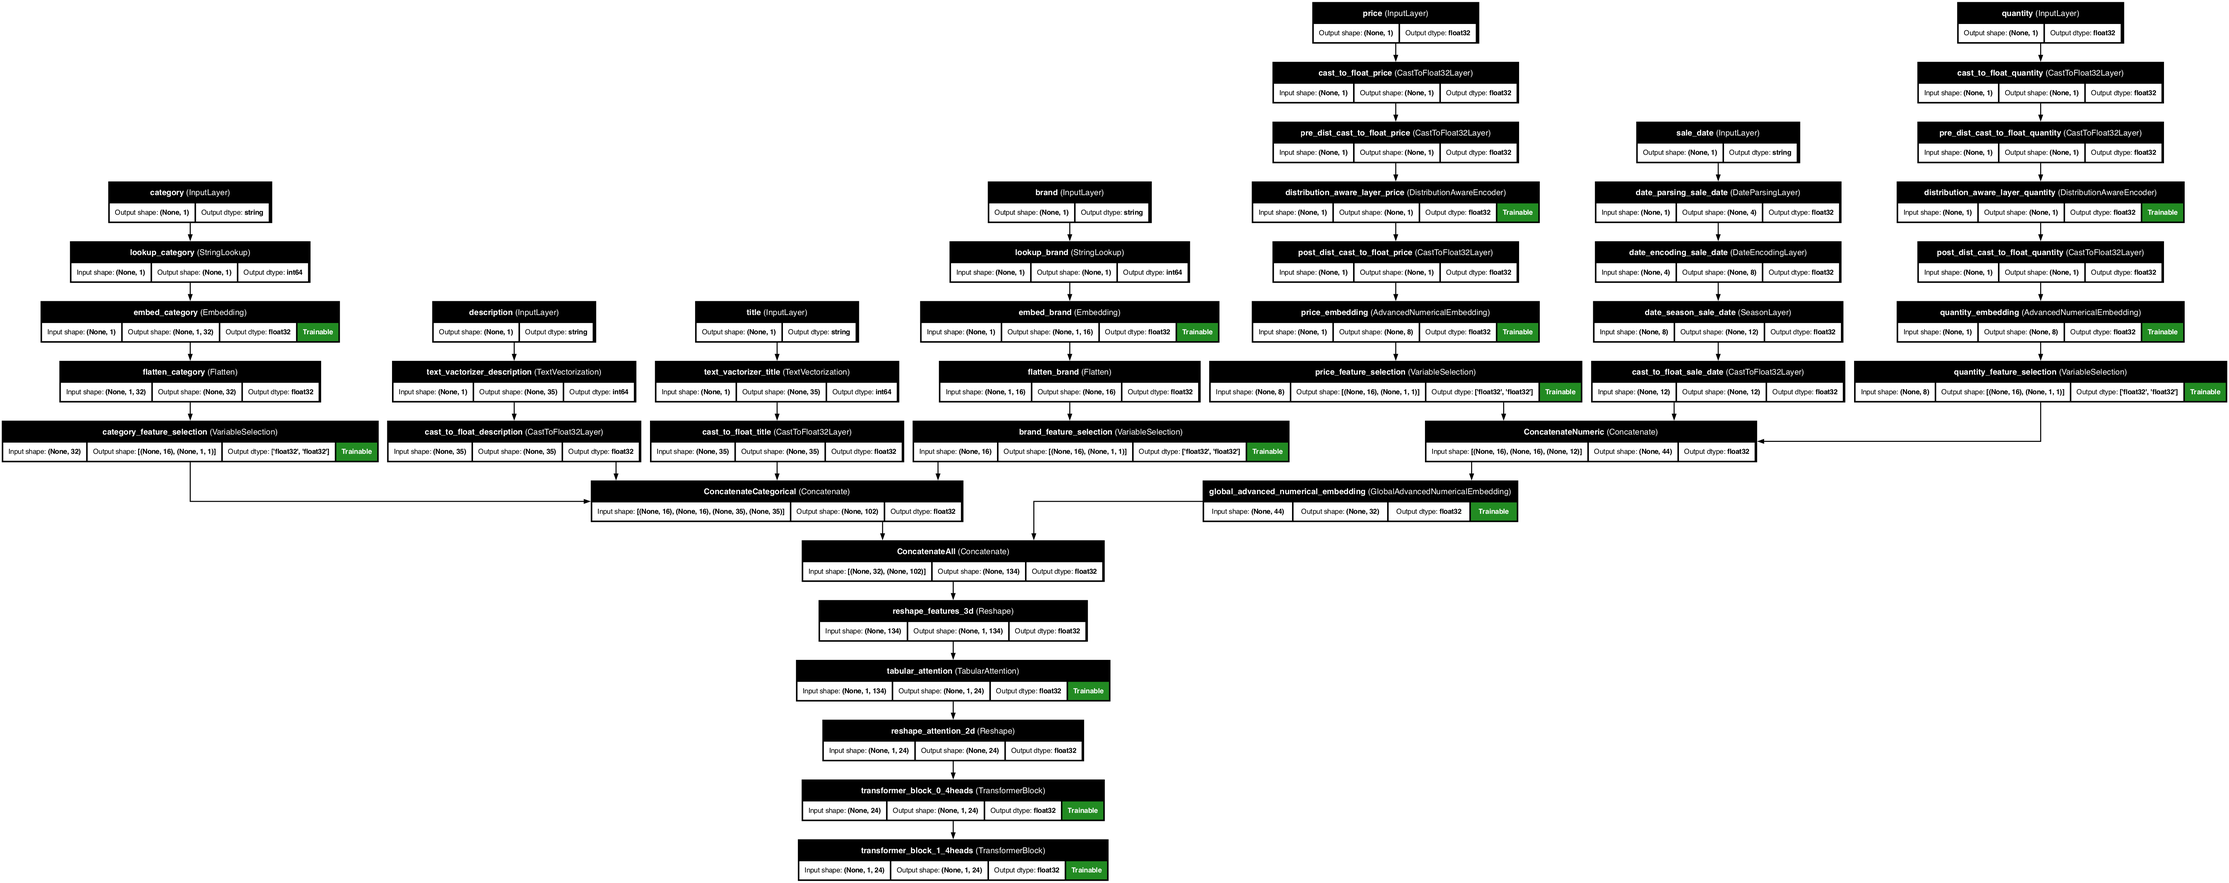
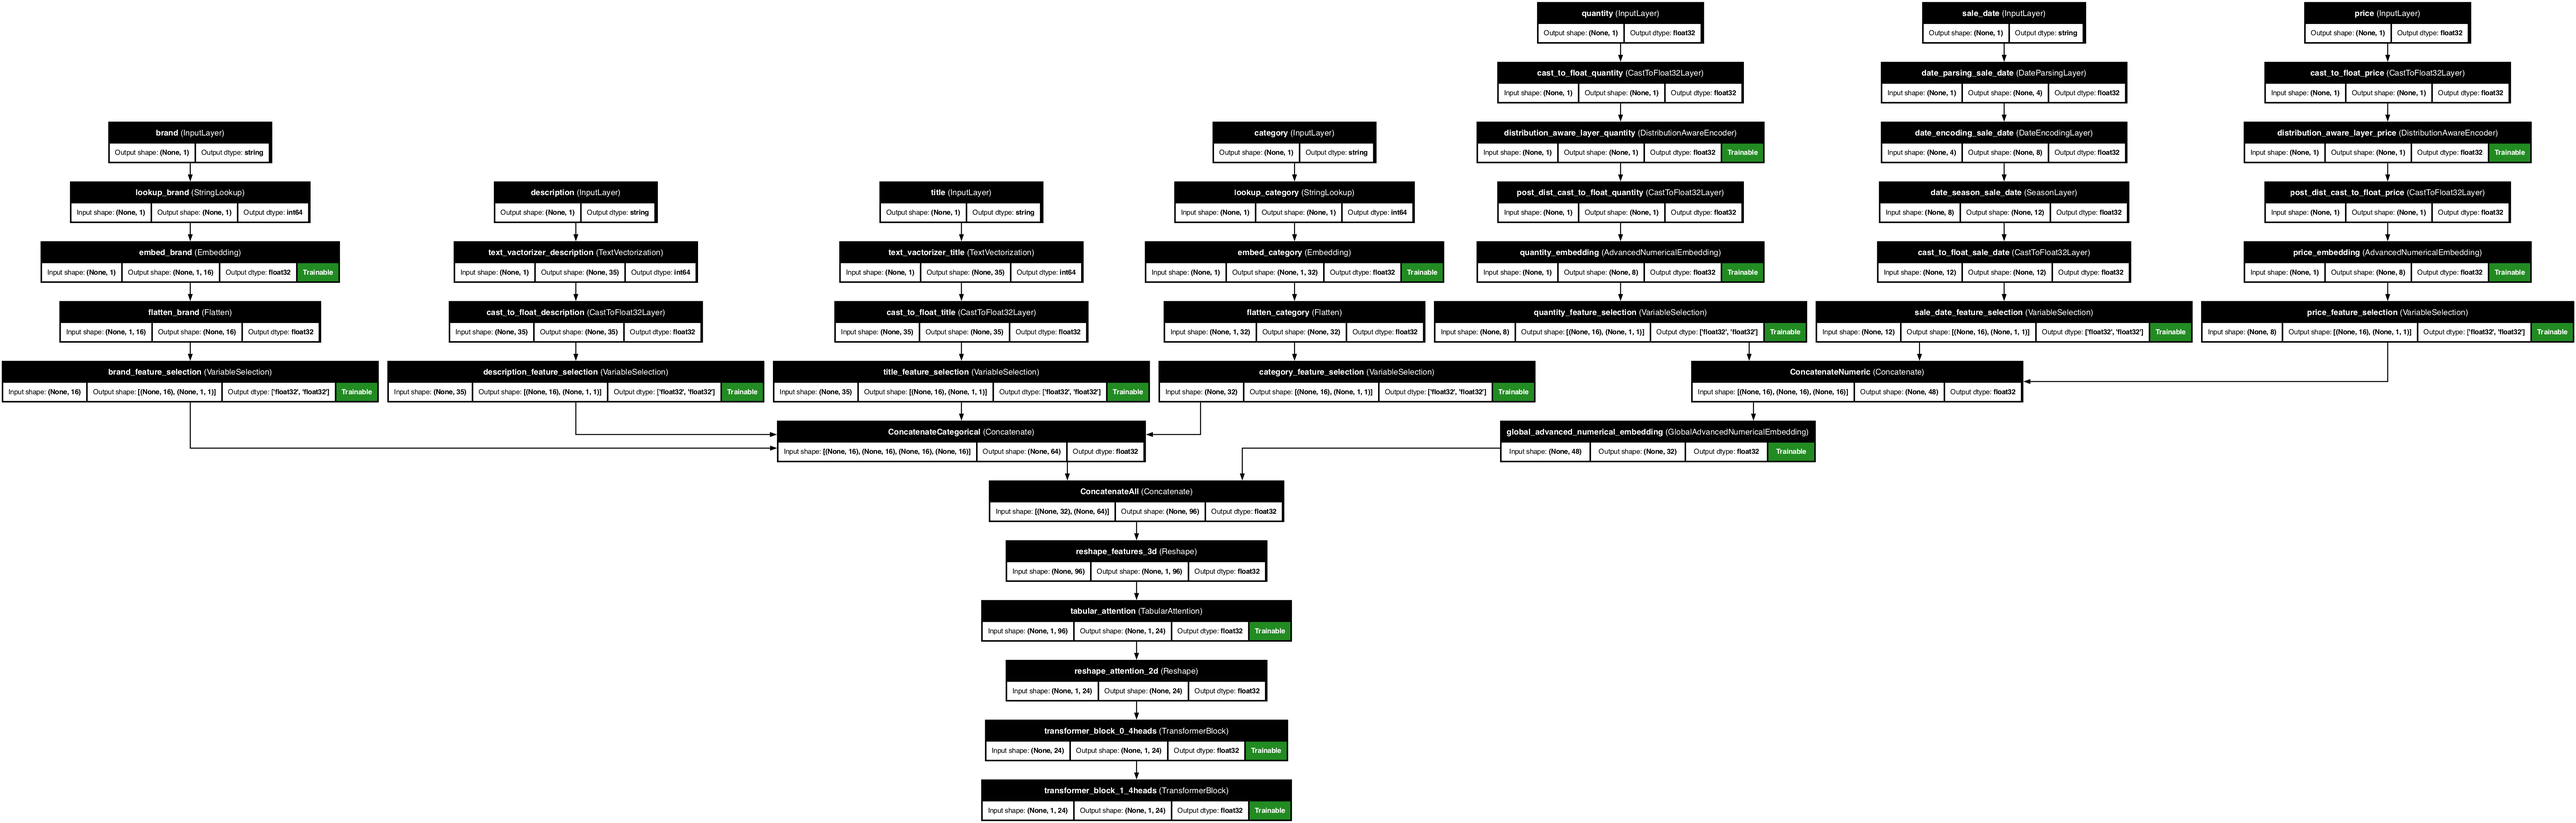
fix(KDP): small fixes

Changed region(s): [[0.0, 0.0, 1.0, 1.0]]

diff --git a/kdp/processor.py b/kdp/processor.py
@@ -65,6 +65,8 @@ class FeatureSelectionPlacementOptions(str, Enum):
     NONE = "none"
     NUMERIC = "numeric"
     CATEGORICAL = "categorical"
+    TEXT = "text"
+    DATE = "date"
     ALL_FEATURES = "all_features"
 
 
@@ -645,11 +647,6 @@ class PreprocessingModel:
             # Check if distribution-aware encoding is enabled
             if self.use_distribution_aware:
                 logger.info(f"Using distribution-aware encoding for {feature_name}")
-                # Cast to float32 before distribution-aware encoding
-                preprocessor.add_processing_step(
-                    layer_creator=PreprocessorLayerFactory.cast_to_float32_layer,
-                    name=f"pre_dist_cast_to_float_{feature_name}",
-                )
                 # Check if manually specified distribution is provided
                 _prefered_distribution = _feature.kwargs.get("prefered_distribution")
                 if _prefered_distribution is not None:
@@ -920,6 +917,22 @@ class PreprocessingModel:
             )
         # Process the feature
         _output_pipeline = preprocessor.chain(input_layer=input_layer)
+
+        # Apply feature selection if enabled for categorical features
+        if (
+            self.feature_selection_placement == FeatureSelectionPlacementOptions.TEXT
+            or self.feature_selection_placement
+            == FeatureSelectionPlacementOptions.ALL_FEATURES
+        ):
+            feature_selector = PreprocessorLayerFactory.variable_selection_layer(
+                name=f"{feature_name}_feature_selection",
+                nr_features=1,  # Single feature for now
+                units=self.feature_selection_units,
+                dropout_rate=self.feature_selection_dropout,
+            )
+            _output_pipeline, feature_weights = feature_selector([_output_pipeline])
+            self.processed_features[f"{feature_name}_weights"] = feature_weights
+
         self.processed_features[feature_name] = _output_pipeline
 
     @_monitor_performance
@@ -981,6 +994,22 @@ class PreprocessingModel:
 
         # Process the feature
         _output_pipeline = preprocessor.chain(input_layer=input_layer)
+
+        # Apply feature selection if enabled for categorical features
+        if (
+            self.feature_selection_placement == FeatureSelectionPlacementOptions.DATE
+            or self.feature_selection_placement
+            == FeatureSelectionPlacementOptions.ALL_FEATURES
+        ):
+            feature_selector = PreprocessorLayerFactory.variable_selection_layer(
+                name=f"{feature_name}_feature_selection",
+                nr_features=1,  # Single feature for now
+                units=self.feature_selection_units,
+                dropout_rate=self.feature_selection_dropout,
+            )
+            _output_pipeline, feature_weights = feature_selector([_output_pipeline])
+            self.processed_features[f"{feature_name}_weights"] = feature_weights
+
         self.processed_features[feature_name] = _output_pipeline
 
     @_monitor_performance
